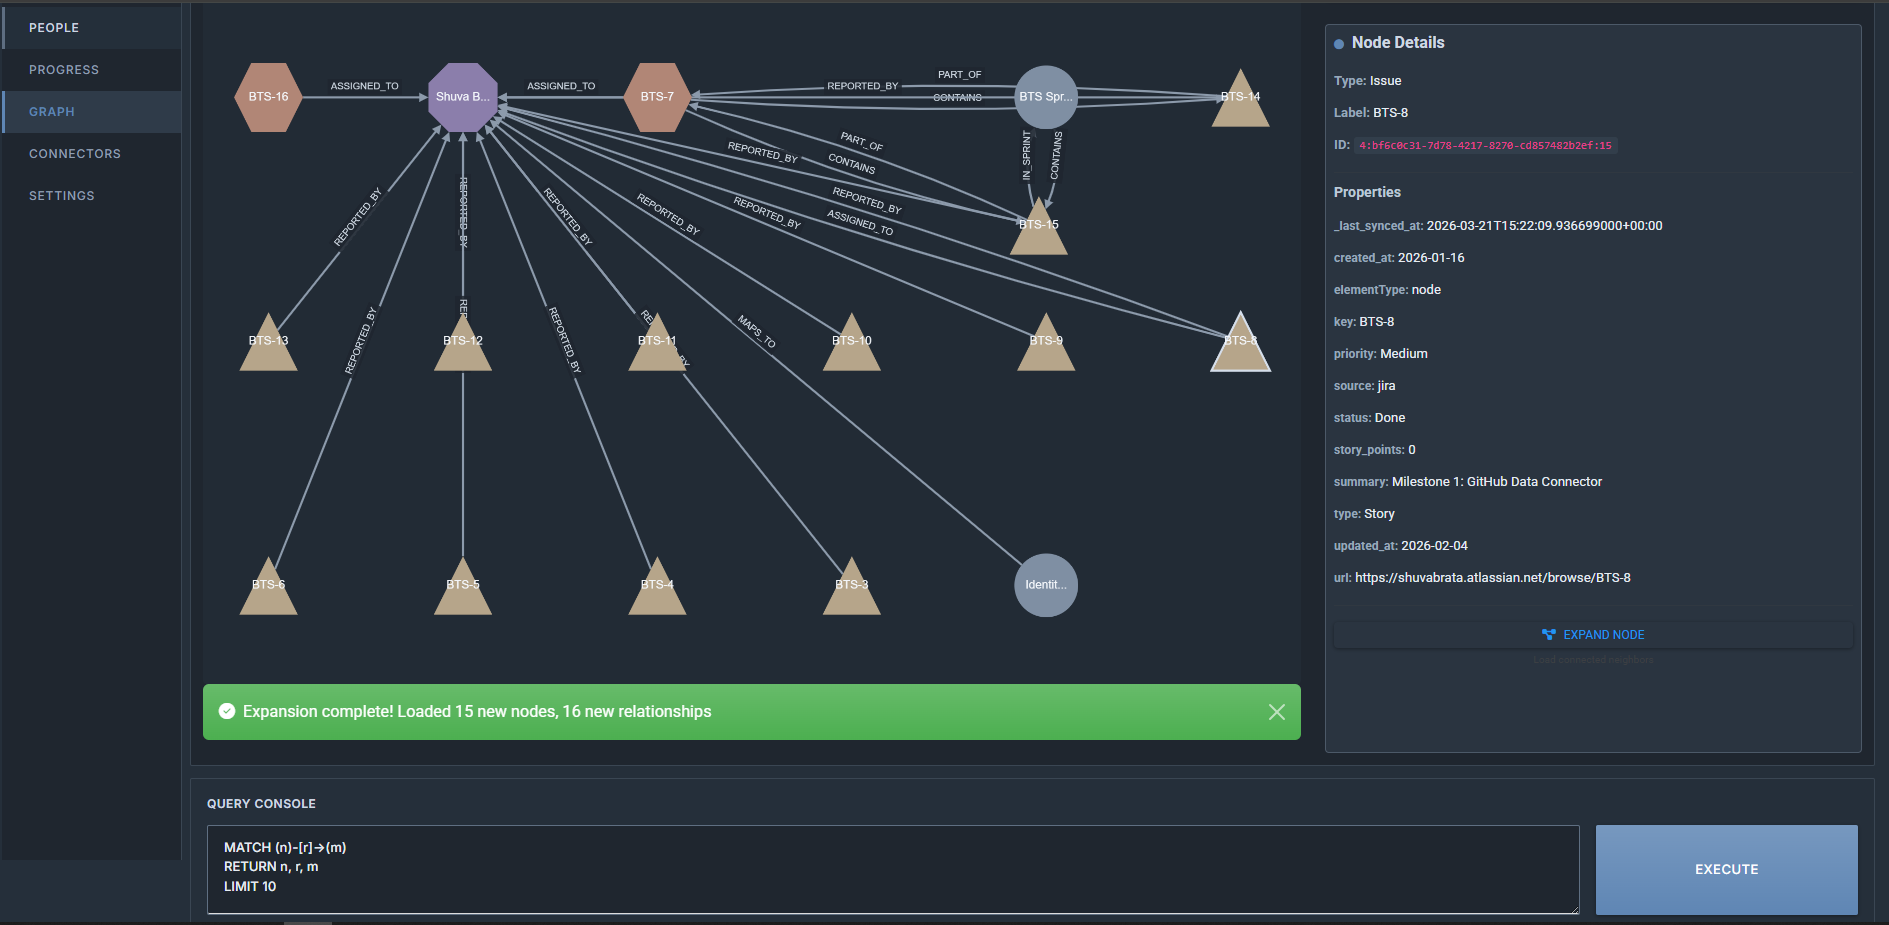
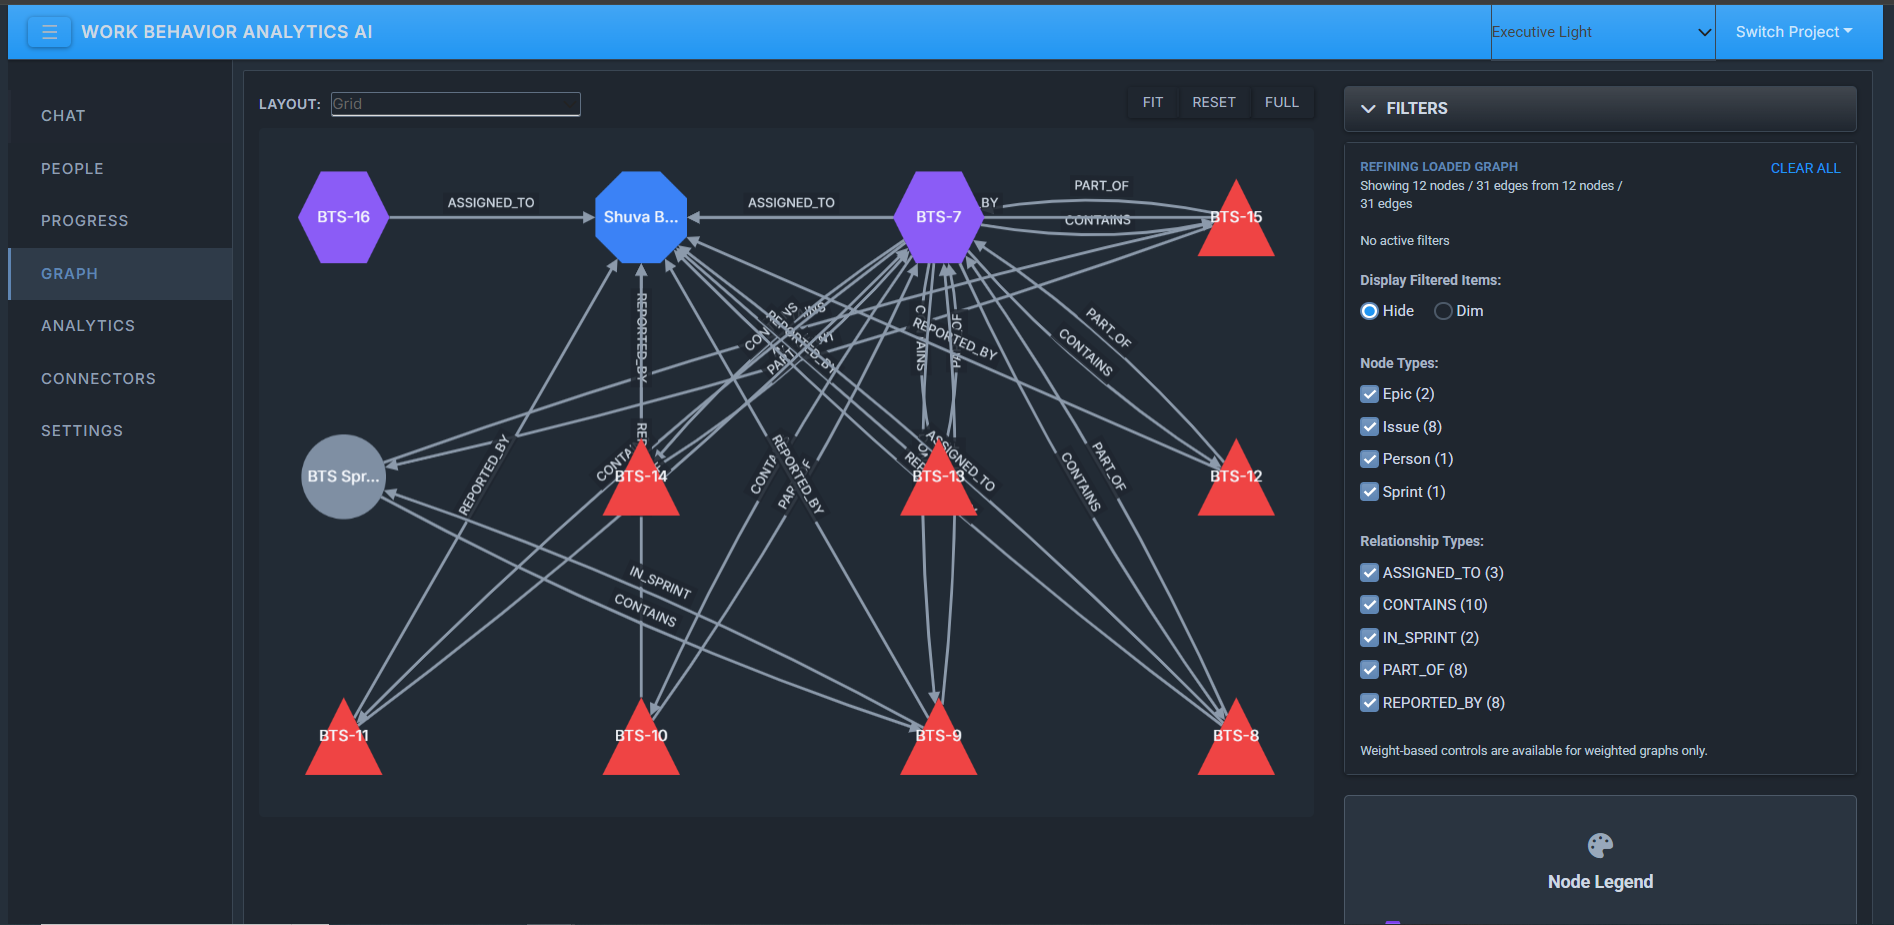
updated README with latest screenshots

diff --git a/README.md b/README.md
@@ -30,6 +30,10 @@ The system analyzes project data from various enterprise productivity tools (suc
 
 #### AI chat interface
 ![alt text](images/image-2.png)
+
+#### Interactive collaboration network
+![alt text](images/image-4.png)
+
 ## Technology Stack
 
 * **Backend**: Python, FastAPI, PostgreSQL (asyncpg, SQLAlchemy, Alembic)